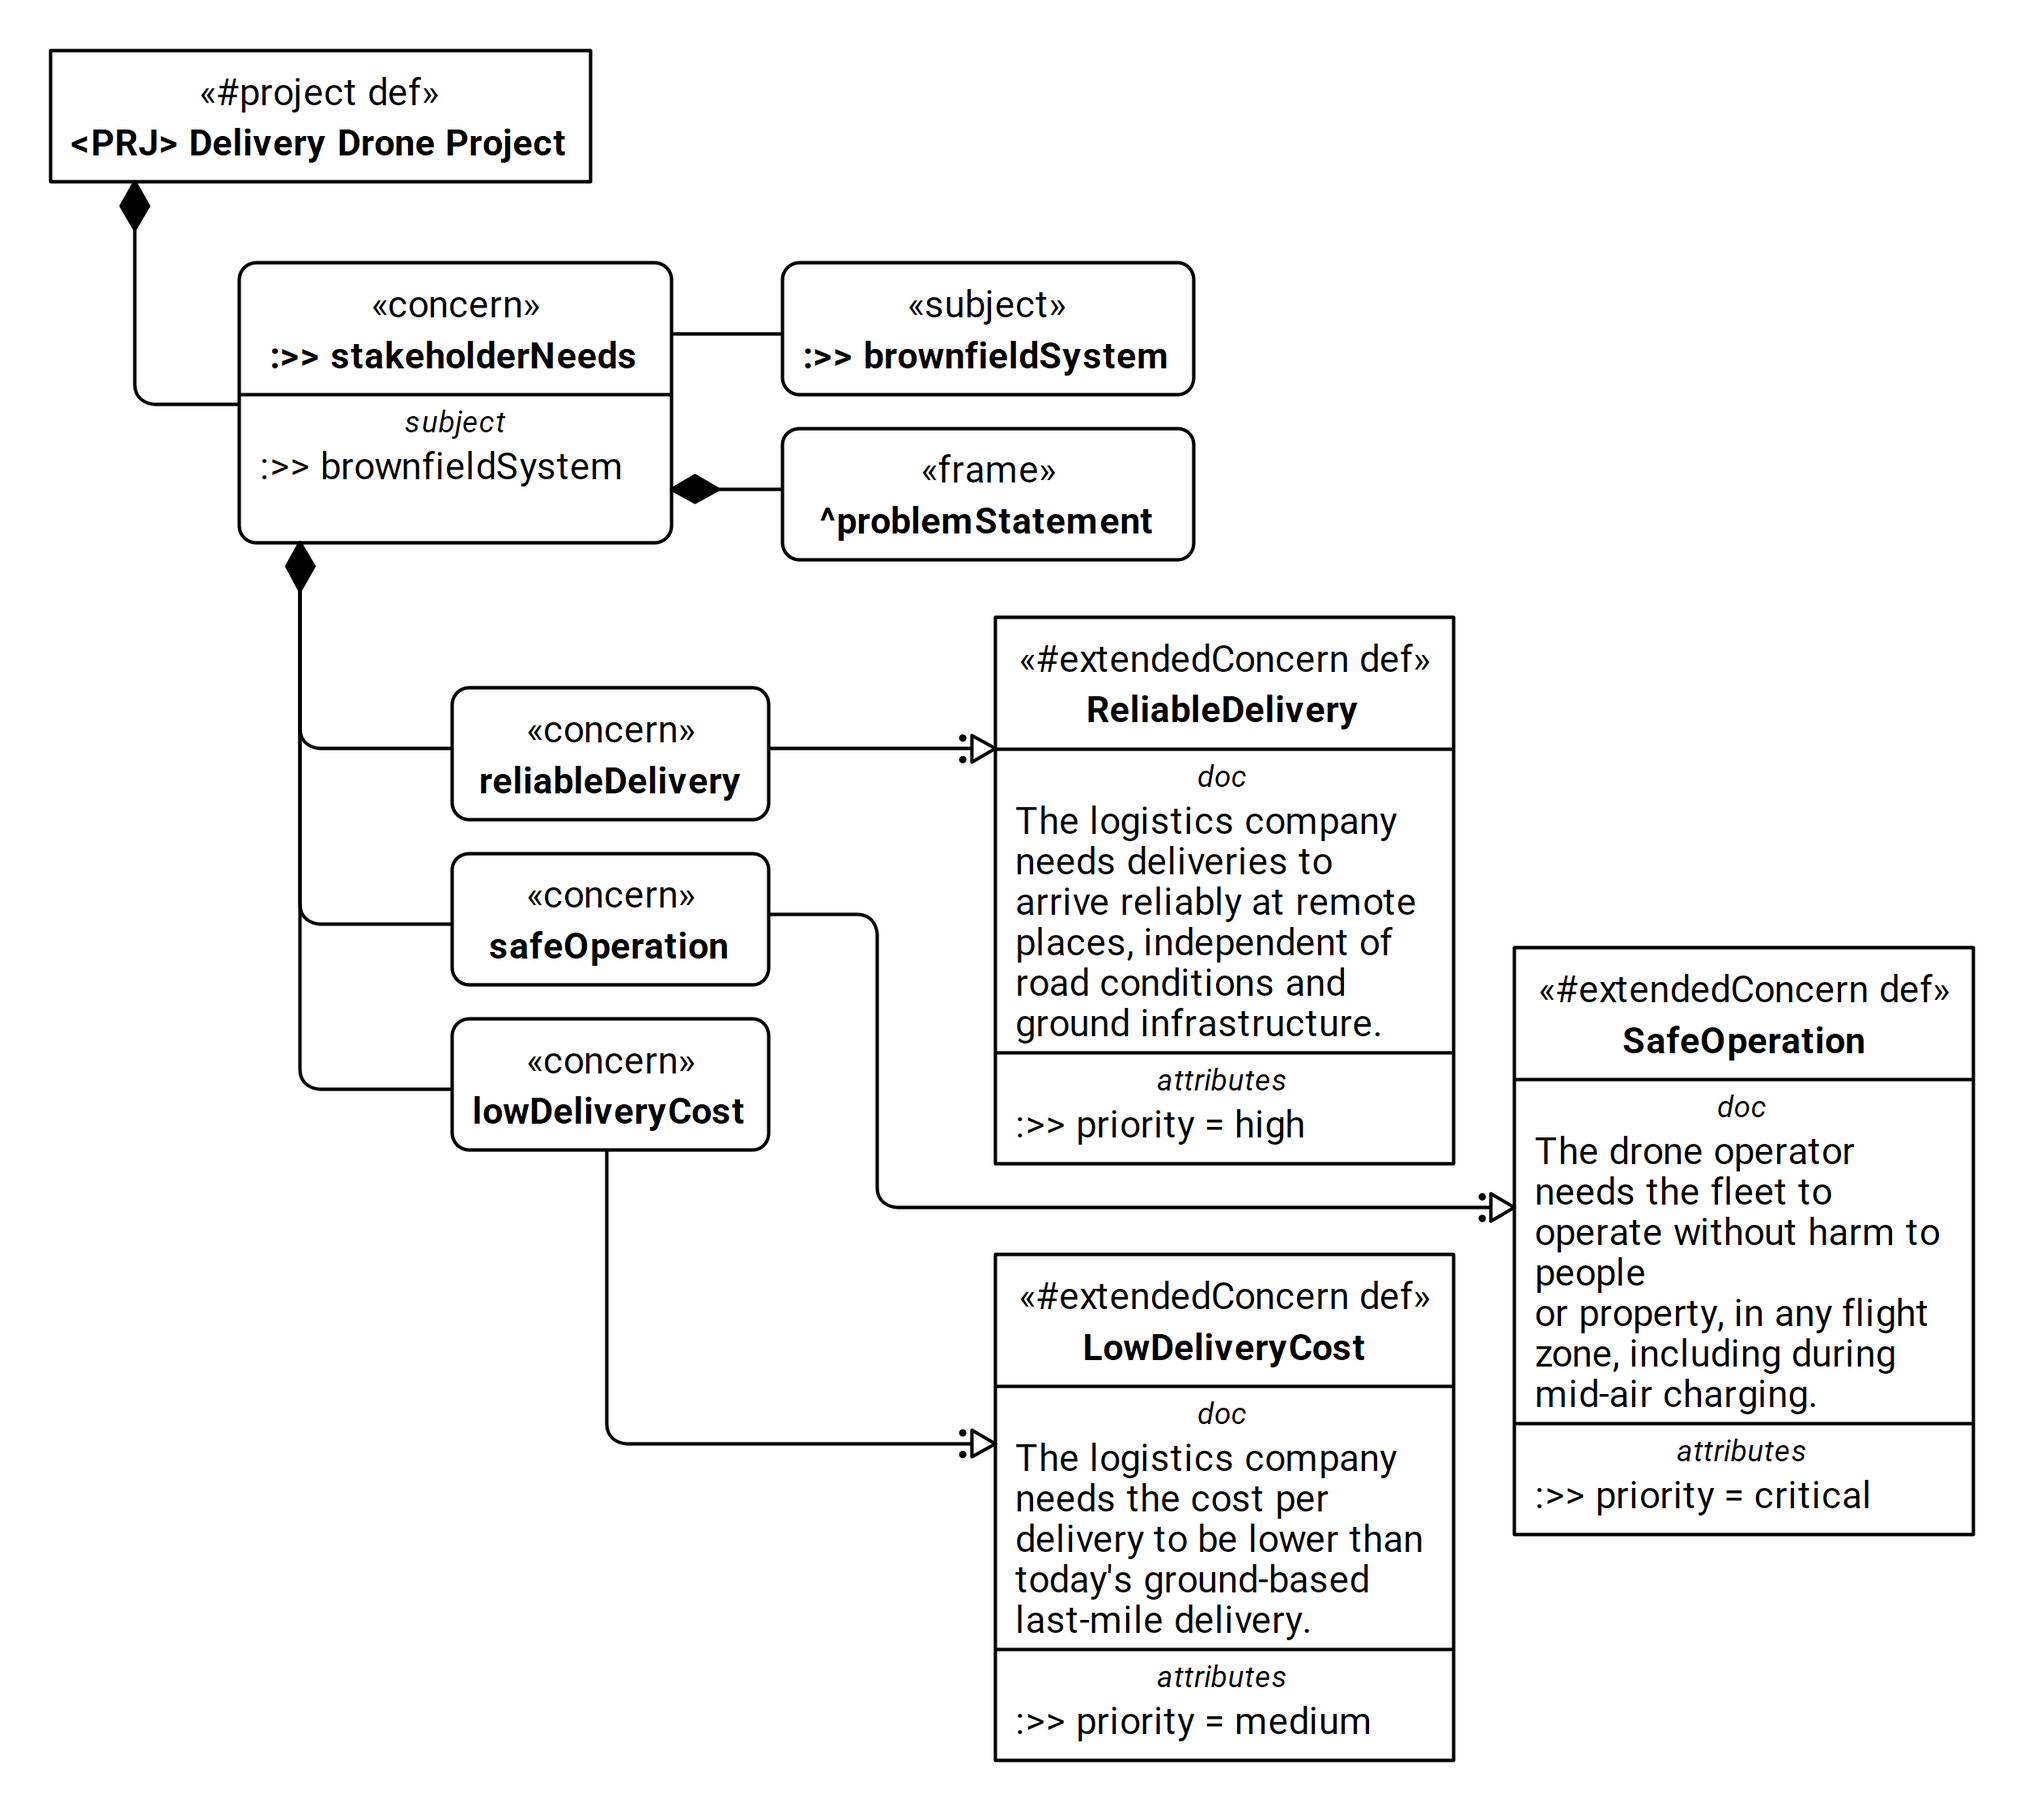
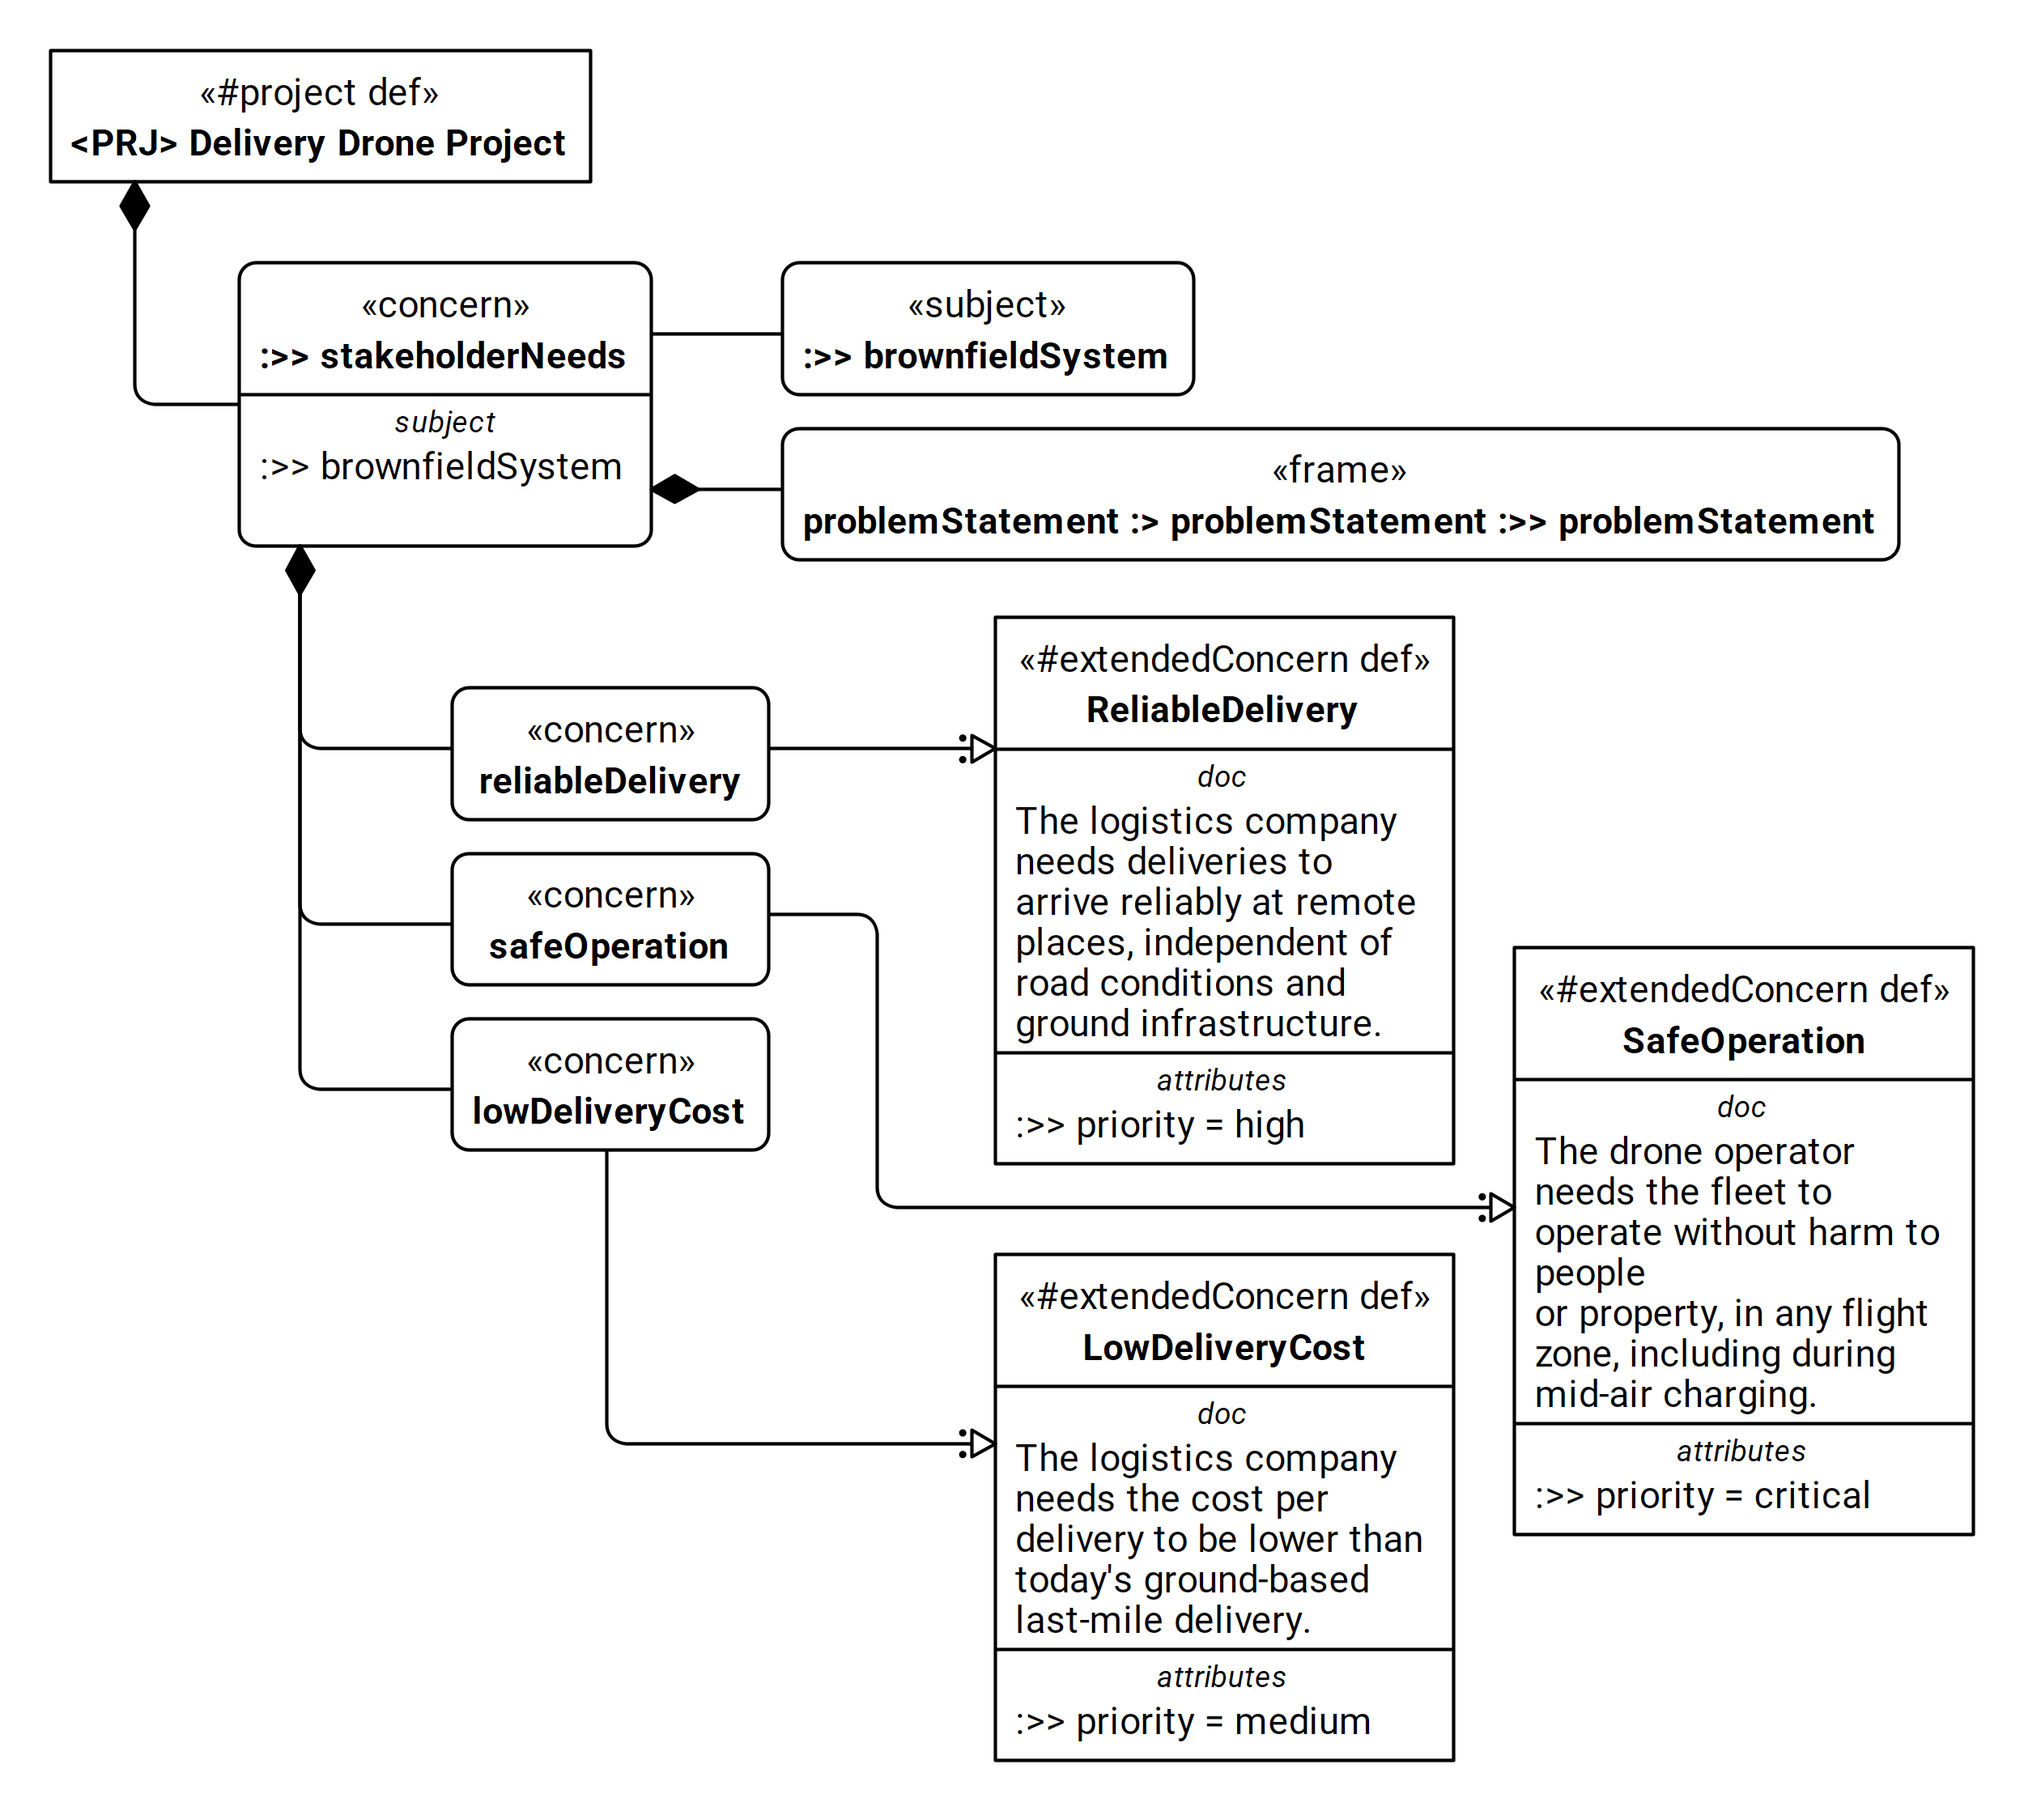
feat: Update styling for model layers and enhance problem statement framing in delivery drone project

Changed region(s): [[0.1248, 0.1542, 0.3744, 0.3084], [0.4056, 0.2468, 0.936, 0.3084]]

diff --git a/sysmod.org/sysmodv5-reveal.html b/sysmod.org/sysmodv5-reveal.html
@@ -171,6 +171,8 @@
   /* ---------- Layer 4: Concrete Model (left border = teal, code-forward) ---------- */
   section.layer-model{border-top-color:var(--accent-teal);}
   section.layer-model .eyebrow{color:var(--accent-teal);}
+  section.layer-model .content-grid{align-items:stretch;}
+  section.layer-model .text-col--model-code{overflow-y:auto; min-height:0;}
 
   /* ---------- Layer 5: AI Skill (left border = violet) ---------- */
   section.layer-ai{border-top-color:var(--accent-violet); background:#FAF8FC;}
@@ -466,8 +468,8 @@ const steps = [
       model:{ text:"Each concrete need subsets the library’s stakeholderNeeds and stays intent-level — reliable, safe, and cheap, not yet how.", 
       code:`<span class="kw">#project</span> <span class="kw">occurrence</span> <span class="kw">def</span> <span class="ty">&lt;PRJ&gt; 'Delivery Drone Project'</span> {
   <span class="kw">concern</span> :&gt;&gt; stakeholderNeeds {
-            <span class="cm">// frame problemStatement is inherited from SYSMOD::Project</span>
             <span class="kw">subject</span> :&gt;&gt; brownfieldSystem = deliveryDroneBrownfieldContextImpl.deliveryDroneSystemImpl;
+            <span class="kw">frame</span> problemStatement :>> <span class="ty">Project</span>::stakeholderNeeds::problemStatement :> <span class="ty">PRJ</span>::problemStatement;
             <span class="kw">concern</span> reliableDelivery : <span class="ty">ReliableDelivery</span>;
             <span class="kw">concern</span> safeOperation : <span class="ty">SafeOperation</span>;
             <span class="kw">concern</span> lowDeliveryCost : <span class="ty">LowDeliveryCost</span>;
